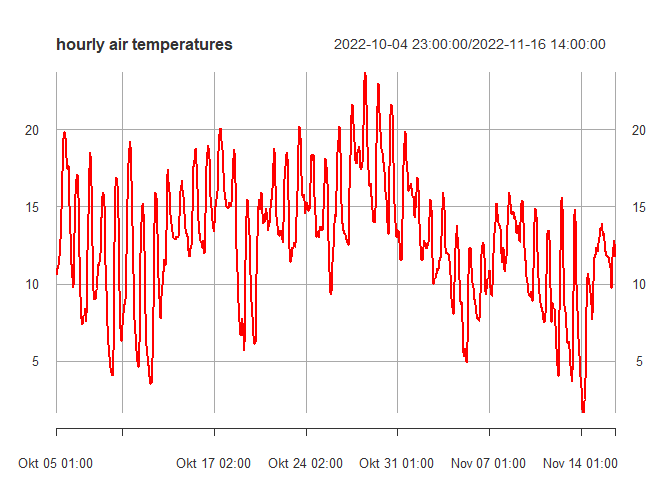
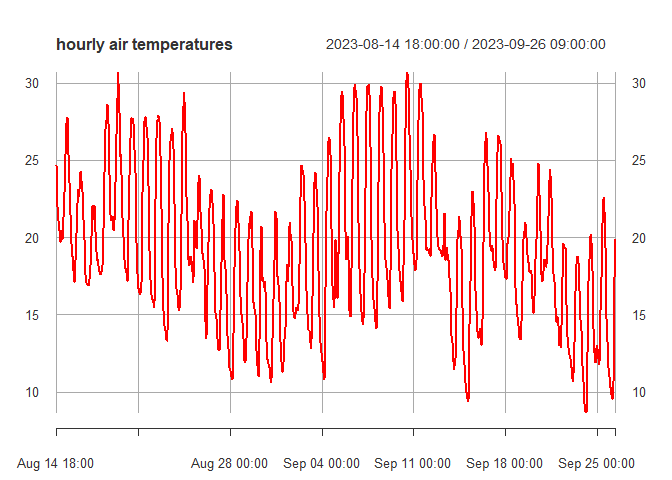
README

diff --git a/README.md b/README.md
@@ -11,7 +11,7 @@ and station metadata making use of the Netatmo Weather API.
 You can install the development version of netatmo.weather with:
 
 ``` r
-install.packages("devtools")
+# install.packages("devtools")
 devtools::install_github("dimfalk/netatmo.weather")
 ```
 
@@ -19,6 +19,7 @@ and load the package via
 
 ``` r
 library(netatmo.weather)
+#> 0.5.1
 ```
 
 ## Getting Started
@@ -155,29 +156,36 @@ This information can now be used to list stations located in this area
 ``` r
 stations <- get_publicdata(ext = e1)
 #> /getpublicdata: Fetching stations from the following area: 6.89, 51.34, 7.13, 51.53 ...
+#> Warning: Automatic coercion from double to character was deprecated in purrr 1.0.0.
+#> ℹ Please use an explicit call to `as.character()` within `map_chr()` instead.
+#> ℹ The deprecated feature was likely used in the netatmo.weather package.
+#>   Please report the issue to the authors.
+#> This warning is displayed once every 8 hours.
+#> Call `lifecycle::last_lifecycle_warnings()` to see where this warning was
+#> generated.
 
 stations
-#> Simple feature collection with 309 features and 13 fields
+#> Simple feature collection with 310 features and 13 fields
 #> Geometry type: POINT
 #> Dimension:     XY
-#> Bounding box:  xmin: 6.891979 ymin: 51.34072 xmax: 7.12971 ymax: 51.52976
+#> Bounding box:  xmin: 6.891979 ymin: 51.34127 xmax: 7.129903 ymax: 51.52976
 #> Geodetic CRS:  WGS 84
-#> # A tibble: 309 × 14
-#>    status time_server         base_…¹ timez…² country altit…³ city  street  mark
-#>  * <chr>  <dttm>              <chr>   <chr>   <chr>     <int> <chr> <chr>  <int>
-#>  1 ok     2022-11-16 15:59:11 70:ee:… Europe… DE          112 Essen Steel…    10
-#>  2 ok     2022-11-16 15:59:11 70:ee:… Europe… DE          114 Essen Steel…    10
-#>  3 ok     2022-11-16 15:59:11 70:ee:… Europe… DE          108 Essen Herwa…    10
-#>  4 ok     2022-11-16 15:59:11 70:ee:… Europe… DE           76 Essen Graff…    10
-#>  5 ok     2022-11-16 15:59:11 70:ee:… Europe… DE           60 Essen Hengl…    10
-#>  6 ok     2022-11-16 15:59:11 70:ee:… Europe… DE           79 Essen Am Kn…    10
-#>  7 ok     2022-11-16 15:59:11 70:ee:… Europe… DE           69 Essen Notte…    10
-#>  8 ok     2022-11-16 15:59:11 70:ee:… Europe… DE           77 Essen Lohmü…     1
-#>  9 ok     2022-11-16 15:59:11 70:ee:… Europe… DE           76 Essen Lohdi…    10
-#> 10 ok     2022-11-16 15:59:11 70:ee:… Europe… DE           98 Essen Märki…    10
-#> # … with 299 more rows, 5 more variables: n_modules <int>, NAModule1 <chr>,
-#> #   NAModule2 <chr>, NAModule3 <chr>, geometry <POINT [°]>, and abbreviated
-#> #   variable names ¹base_station, ²timezone, ³altitude
+#> # A tibble: 310 × 14
+#>    status time_server         base_station      timezone  country altitude city 
+#>  * <chr>  <dttm>              <chr>             <chr>     <chr>      <int> <chr>
+#>  1 ok     2023-09-26 12:16:30 70:ee:50:6b:34:74 Europe/B… DE           112 Essen
+#>  2 ok     2023-09-26 12:16:30 70:ee:50:04:ce:cc Europe/B… DE           114 Essen
+#>  3 ok     2023-09-26 12:16:30 70:ee:50:74:0d:4a Europe/B… DE           108 Essen
+#>  4 ok     2023-09-26 12:16:30 70:ee:50:a2:01:6a Europe/B… DE           108 Essen
+#>  5 ok     2023-09-26 12:16:30 70:ee:50:13:54:bc Europe/B… DE            79 Essen
+#>  6 ok     2023-09-26 12:16:30 70:ee:50:01:da:22 Europe/B… DE            98 Essen
+#>  7 ok     2023-09-26 12:16:30 70:ee:50:a5:9f:7a Europe/B… DE            69 Essen
+#>  8 ok     2023-09-26 12:16:30 70:ee:50:05:06:2a Europe/B… DE            69 Essen
+#>  9 ok     2023-09-26 12:16:30 70:ee:50:36:f4:76 Europe/B… DE            77 Essen
+#> 10 ok     2023-09-26 12:16:30 70:ee:50:33:0b:c8 Europe/B… DE            98 Essen
+#> # ℹ 300 more rows
+#> # ℹ 7 more variables: street <chr>, mark <int>, n_modules <int>,
+#> #   NAModule1 <chr>, NAModule2 <chr>, NAModule3 <chr>, geometry <POINT [°]>
 ```
 
 However, since the number of stations returned by **/getpublicdata**
@@ -191,27 +199,27 @@ stations_tiled <- get_publicdata(ext = e1,
                                  tiles = TRUE)
 
 stations_tiled
-#> Simple feature collection with 633 features and 13 fields
+#> Simple feature collection with 635 features and 13 fields
 #> Geometry type: POINT
 #> Dimension:     XY
-#> Bounding box:  xmin: 6.890067 ymin: 51.34072 xmax: 7.12971 ymax: 51.52976
+#> Bounding box:  xmin: 6.890067 ymin: 51.34127 xmax: 7.129903 ymax: 51.52976
 #> Geodetic CRS:  WGS 84
-#> # A tibble: 633 × 14
-#>    status time_server         base_…¹ timez…² country altit…³ city  street  mark
-#>    <chr>  <dttm>              <chr>   <chr>   <chr>     <int> <chr> <chr>  <int>
-#>  1 ok     2022-11-16 16:00:06 70:ee:… Europe… DE           45 Essen Volck…    10
-#>  2 ok     2022-11-16 16:00:06 70:ee:… Europe… DE           46 Essen Eva-H…    10
-#>  3 ok     2022-11-16 16:00:06 70:ee:… Europe… DE           48 Essen Rings…     1
-#>  4 ok     2022-11-16 16:00:06 70:ee:… Europe… DE           98 Essen Laupe…    10
-#>  5 ok     2022-11-16 16:00:06 70:ee:… Europe… DE           46 Essen Johan…     1
-#>  6 ok     2022-11-16 16:00:06 70:ee:… Europe… DE           57 Essen Marti…     1
-#>  7 ok     2022-11-16 16:00:06 70:ee:… Europe… DE           64 Essen Meist…    10
-#>  8 ok     2022-11-16 16:00:06 70:ee:… Europe… DE           62 Essen Haupt…    10
-#>  9 ok     2022-11-16 16:00:06 70:ee:… Europe… DE           64 Essen Wilhe…    10
-#> 10 ok     2022-11-16 16:00:06 70:ee:… Europe… DE           66 Essen Eiche…    10
-#> # … with 623 more rows, 5 more variables: n_modules <int>, NAModule1 <chr>,
-#> #   NAModule2 <chr>, NAModule3 <chr>, geometry <POINT [°]>, and abbreviated
-#> #   variable names ¹base_station, ²timezone, ³altitude
+#> # A tibble: 635 × 14
+#>    status time_server         base_station      timezone  country altitude city 
+#>    <chr>  <dttm>              <chr>             <chr>     <chr>      <int> <chr>
+#>  1 ok     2023-09-26 12:17:29 70:ee:50:84:48:5a Europe/B… DE            45 Essen
+#>  2 ok     2023-09-26 12:17:29 70:ee:50:7a:81:24 Europe/B… DE            46 Essen
+#>  3 ok     2023-09-26 12:17:29 70:ee:50:00:c6:8a Europe/B… DE            46 Essen
+#>  4 ok     2023-09-26 12:17:29 70:ee:50:90:94:40 Europe/B… DE            57 Essen
+#>  5 ok     2023-09-26 12:17:29 70:ee:50:7f:f6:c8 Europe/B… DE            61 Essen
+#>  6 ok     2023-09-26 12:17:29 70:ee:50:7a:94:9a Europe/B… DE            61 Essen
+#>  7 ok     2023-09-26 12:17:29 70:ee:50:7b:12:86 Europe/B… DE            66 Essen
+#>  8 ok     2023-09-26 12:17:29 70:ee:50:05:3b:2c Europe/B… DE            81 Essen
+#>  9 ok     2023-09-26 12:17:29 70:ee:50:58:84:c8 Europe/B… DE            45 Mülh…
+#> 10 ok     2023-09-26 12:17:29 70:ee:50:5f:46:0e Europe/B… DE            45 Mülh…
+#> # ℹ 625 more rows
+#> # ℹ 7 more variables: street <chr>, mark <int>, n_modules <int>,
+#> #   NAModule1 <chr>, NAModule2 <chr>, NAModule3 <chr>, geometry <POINT [°]>
 ```
 
 ### /getmeasure
@@ -232,17 +240,17 @@ To assist you with the latter going backwards from `Sys.time()`,
 # default: `res = 5`
 p1 <- get_period()
 as.POSIXct(p1, origin = "1970-01-01")
-#> [1] "2022-11-13 02:40:00 CET" "2022-11-16 16:00:00 CET"
+#> [1] "2023-09-22 22:40:00 CEST" "2023-09-26 12:00:00 CEST"
 
 # here: `res = 60` corresponding to hourly data
 p2 <- get_period(res = 60)
 as.POSIXct(p2, origin = "1970-01-01")
-#> [1] "2022-10-05 01:00:00 CEST" "2022-11-16 16:00:00 CET"
+#> [1] "2023-08-14 20:00:00 CEST" "2023-09-26 12:00:00 CEST"
 
 # querying the last 24 hours, maybe convenient for scheduled jobs
 p3 <- get_period("recent")
 as.POSIXct(p3, origin = "1970-01-01")
-#> [1] "2022-11-15 16:00:00 CET" "2022-11-16 16:00:00 CET"
+#> [1] "2023-09-25 12:00:00 CEST" "2023-09-26 12:00:00 CEST"
 
 # self-defined period
 p4 <- get_period(c("2022-06-01", "2022-06-04"))
@@ -266,10 +274,10 @@ class(obs)
 length(obs)
 #> [1] 10
 names(obs)
-#>  [1] "70:ee:50:84:48:5a" "70:ee:50:7a:81:24" "70:ee:50:90:91:d6"
-#>  [4] "70:ee:50:1f:63:d2" "70:ee:50:00:c6:8a" "70:ee:50:02:5a:1c"
-#>  [7] "70:ee:50:17:cf:02" "70:ee:50:7f:f6:c8" "70:ee:50:5e:ff:a4"
-#> [10] "70:ee:50:7b:12:86"
+#>  [1] "70:ee:50:84:48:5a" "70:ee:50:7a:81:24" "70:ee:50:00:c6:8a"
+#>  [4] "70:ee:50:90:94:40" "70:ee:50:7f:f6:c8" "70:ee:50:7a:94:9a"
+#>  [7] "70:ee:50:7b:12:86" "70:ee:50:05:3b:2c" "70:ee:50:58:84:c8"
+#> [10] "70:ee:50:5f:46:0e"
 
 # subset to individual xts object
 xts <- obs[[1]]
@@ -283,12 +291,12 @@ head(xts)
 #>   NOTE: set 'options(xts_check_TZ = FALSE)'to disable this warning
 #>     This note is displayed once per session
 #>                     temperature
-#> 2022-10-04 23:00:00        10.6
-#> 2022-10-05 00:00:00        10.7
-#> 2022-10-05 01:00:00        11.0
-#> 2022-10-05 02:00:00        11.2
-#> 2022-10-05 03:00:00        11.5
-#> 2022-10-05 04:00:00        11.8
+#> 2023-08-14 18:00:00        24.7
+#> 2023-08-14 19:00:00        23.1
+#> 2023-08-14 20:00:00        22.0
+#> 2023-08-14 21:00:00        21.1
+#> 2023-08-14 22:00:00        20.7
+#> 2023-08-14 23:00:00        20.5
 
 # inspect attribute names appended 
 attributes(xts) |> names() |> tail(-4)
